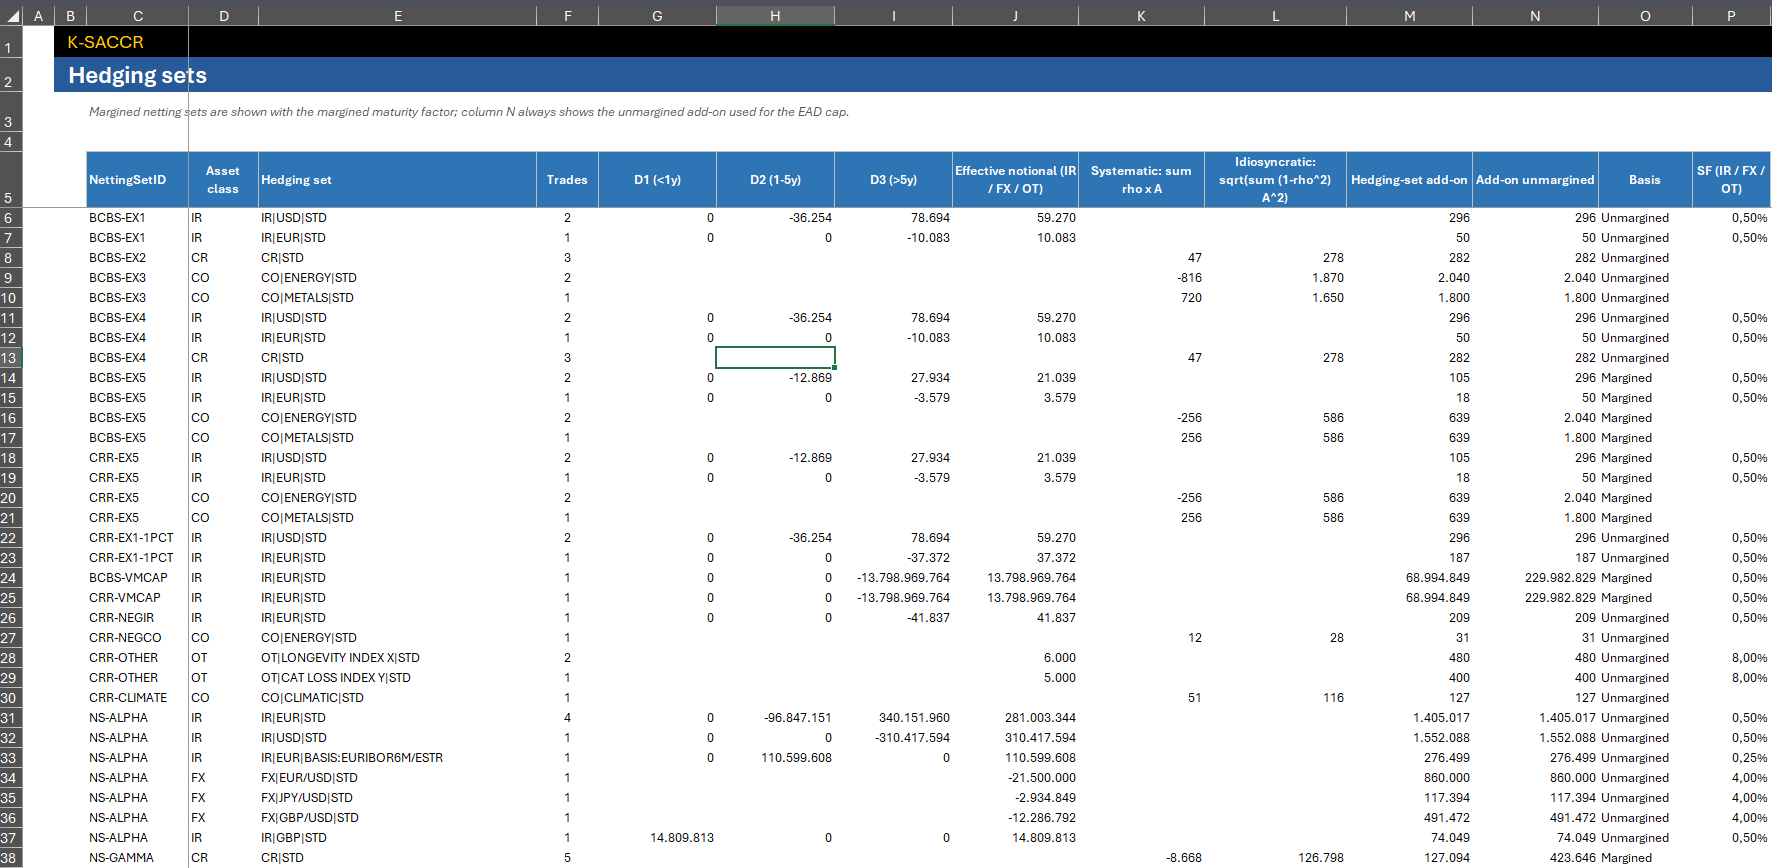
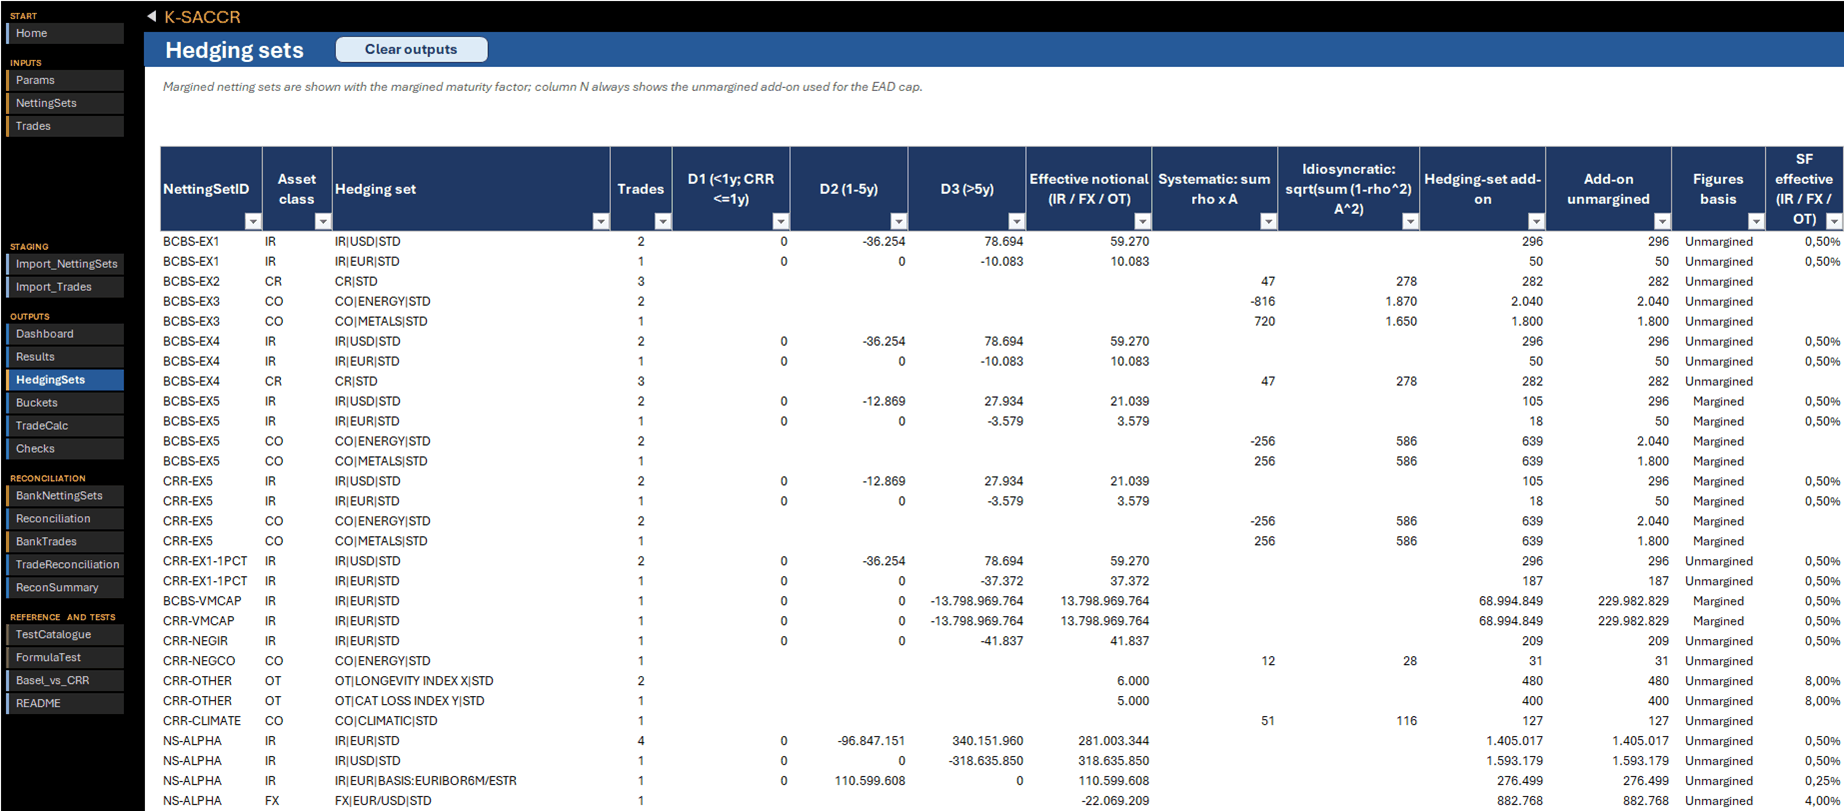
Screenshots: the documentation images retaken on 2026-11-27 (#616)
The 23 sheet pictures of the screenshots run 46035197674, reduced to the
256-colour palette by tools/screenshots.py: the 17 retaken images and the
new Home, Dashboard (two parts), Import_NettingSets, Import_Trades and
ReconSummary. BCBS-EX3 now shows a DIFFERENCE of 104.62 (1.9740%).

Claude-Session: https://claude.ai/code/session_01NMNBCxzS8QdbXRLZk1xSqX

diff --git a/README.md b/README.md
@@ -592,13 +592,13 @@ netting set whose EAD is withheld as a result:
 
 <p align="center">
   <img width="100%"
-       alt="BankNettingSets sheet: amount scale, absolute and relative tolerance, and the bank's EAD for BCBS-EX1 and BCBS-EX3 and a row for an unknown netting set"
+       alt="BankNettingSets sheet: the buttons Import CSV, Export CSV template and Clear bank figures, the amount scale, absolute and relative tolerance, and the bank's EAD for BCBS-EX1 and BCBS-EX3 and a row for an unknown netting set, each with its comment"
        src="docs/assets/SACCR_BankNettingSets.png">
 </p>
 
 <p align="center">
   <img width="100%"
-       alt="Reconciliation sheet: the bank's EAD for BCBS-EX1 is a MATCH, for BCBS-EX3 a DIFFERENCE of 4.62 (0.0855%), an unknown bank netting set is MISSING IN CALCULATOR, and every other netting set is NOT IN BANK FILE, each with its note"
+       alt="Reconciliation sheet: the bank's EAD for BCBS-EX1 is a MATCH, for BCBS-EX3 a DIFFERENCE of 104.62 (1.9740%, beyond the relative tolerance of 1%), an unknown bank netting set is MISSING IN CALCULATOR, and every other netting set is NOT IN BANK FILE, each with its note"
        src="docs/assets/SACCR_Reconciliation.png">
 </p>
 
